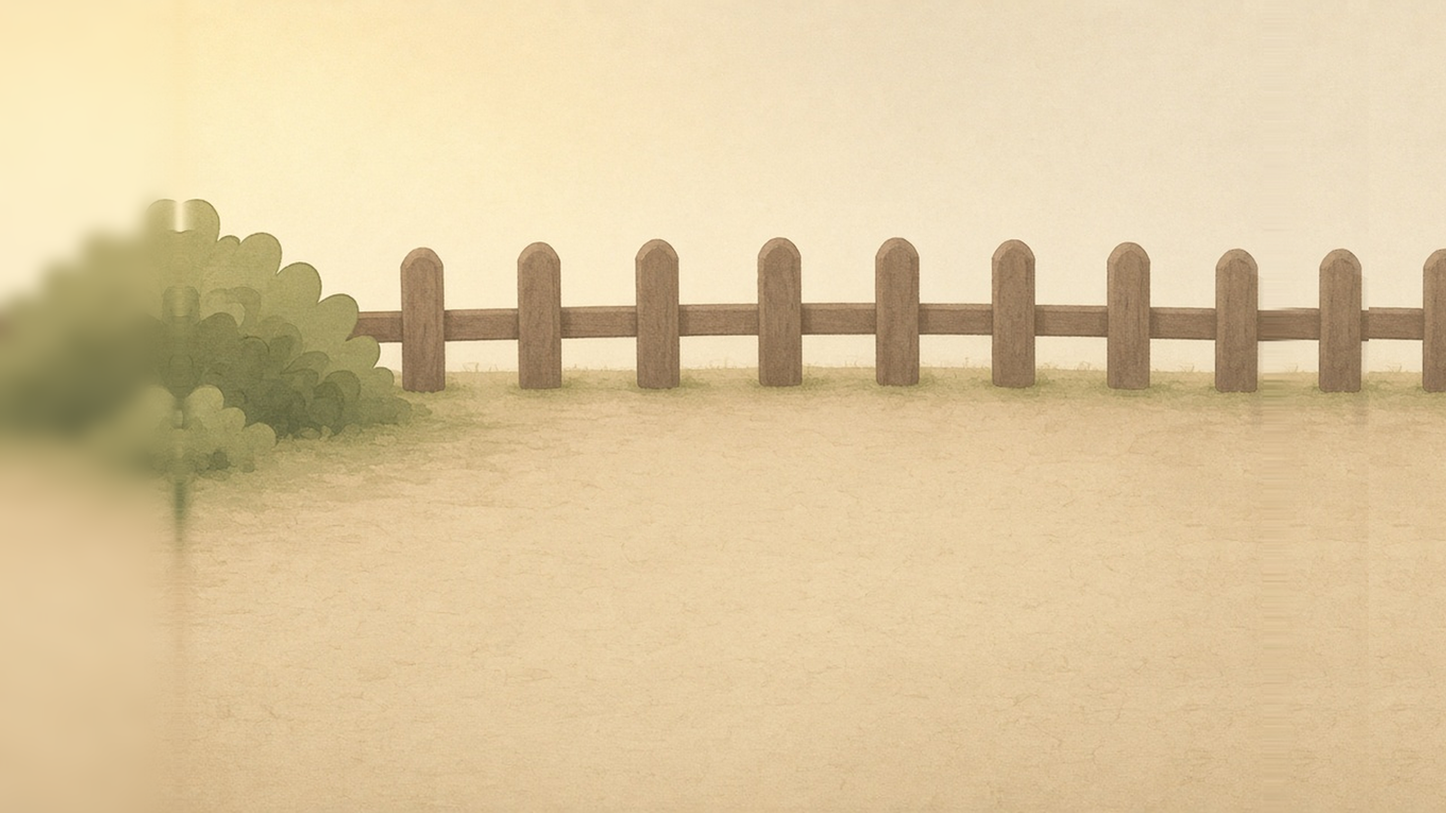
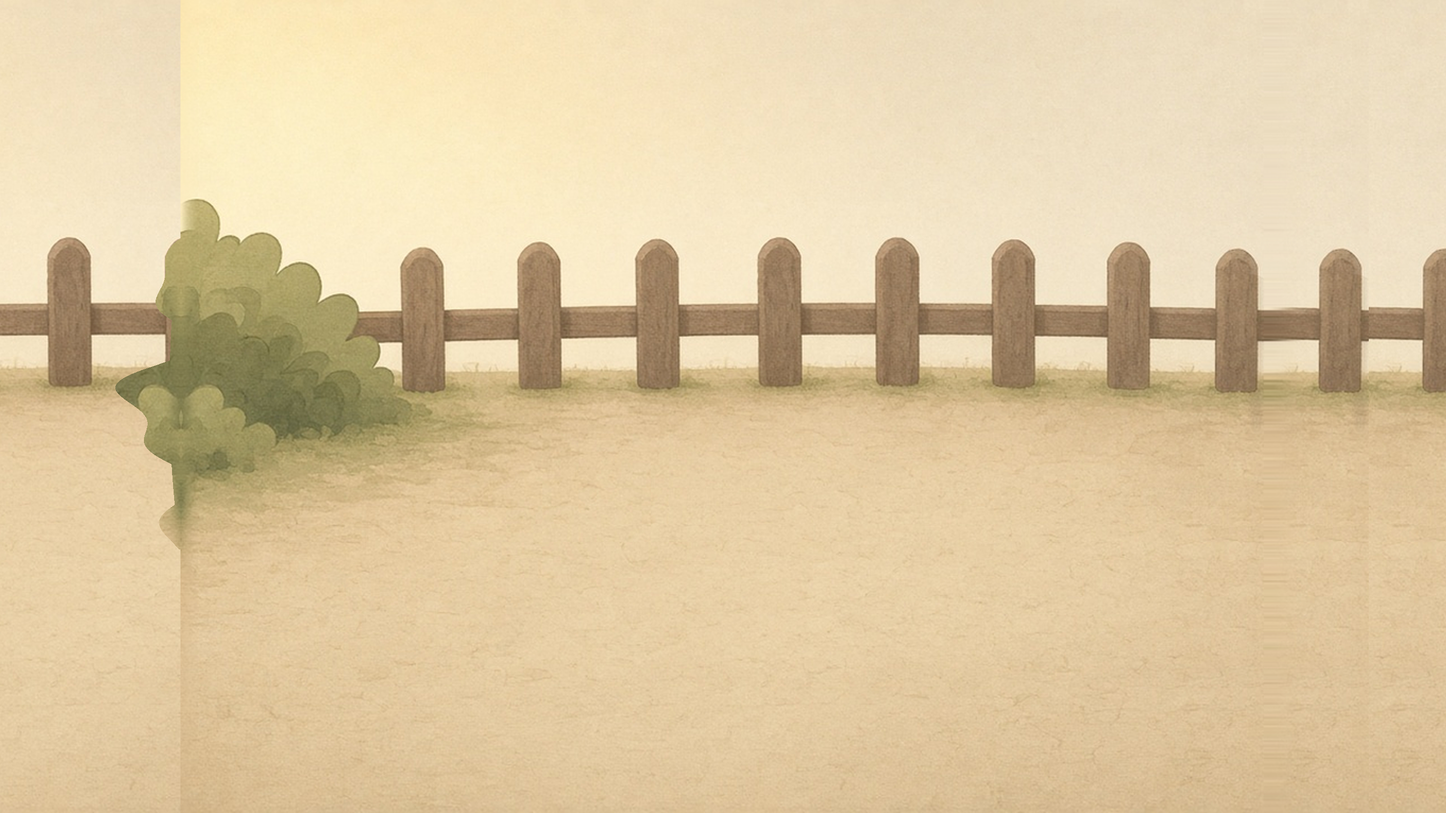
Урок «У»: левый край двора без шва, «У» открывается с главной
Левая боковина bg_yard больше не размытая копия куста. За кадром 4:3
продолжается тот же двор (небо, забор, земля), а срезанный край куста
дорисован короткими лопастями из его собственных пикселей — стык
совпадает попиксельно, вертикальной полосы нет.
На главной кубик «У» ведёт в lesson-u/, как «А» в lesson-a/.

Changed region(s): [[0.0, 0.25, 0.1245, 0.7188]]

diff --git a/web-home/index.html b/web-home/index.html
@@ -164,10 +164,12 @@ body { position: fixed; inset: 0; touch-action: manipulation; -webkit-user-selec
     b.type = "button"; b.dataset.letter = ch;
     var s = document.createElement("span"); s.textContent = ch;
     b.appendChild(s); letters.appendChild(b); cubes.push(b);
+    if (LESSONS[ch]) b.dataset.lesson = LESSONS[ch];
     if (ch === "А") { b.id = "cube-a"; cubeA = b; }
+    if (LESSONS[ch]) c_on(b);   // «А» → lesson-a/, «У» → lesson-u/; закрытая в режиме последовательности — «тук»
     else {
       if (ch === "Б") cubeLocked = b;   // цель автотеста: буква без урока
-      b.addEventListener("pointerdown", lockedTap);   // урока пока нет (или буква закрыта) — «тук» + покачивание
+      b.addEventListener("pointerdown", lockedTap);   // урока пока нет — «тук» + покачивание
     }
   }
   // какие буквы открыты: по умолчанию (незарегистрированный пользователь) — все; с настройкой «по последовательности» —
@@ -302,21 +304,27 @@ body { position: fixed; inset: 0; touch-action: manipulation; -webkit-user-selec
     try { actx.resume().then(function () { if (knockPending) { knockPending = false; knockNow(); } }, function () {}); } catch (e) {}
   }
   document.addEventListener("pointerup", unlockAudio, true); document.addEventListener("touchend", unlockAudio, true);
-  c_on(cubeA);
   function c_on(a) {
     // отклик — сразу на касание; переход — когда палец отпущен на кубике (click не ждём: на части планшетов он запаздывает)
     var down = false;
-    a.addEventListener("pointerdown", function () { if (state !== "leaving") { down = true; a.classList.add("press"); } });
-    a.addEventListener("pointerup", function () { if (down) { down = false; go(); } });
+    a.addEventListener("pointerdown", function (e) {
+      if (state === "leaving") return;
+      if (a.classList.contains("locked")) { lockedTap(e); return; }
+      down = true; a.classList.add("press");
+    });
+    a.addEventListener("pointerup", function () { if (down) { down = false; go(a); } });
     a.addEventListener("pointerleave", function () { down = false; if (state !== "leaving") a.classList.remove("press"); });
     a.addEventListener("pointercancel", function () { down = false; if (state !== "leaving") a.classList.remove("press"); });
-    a.addEventListener("click", go);   // клавиатура / программный клик
+    a.addEventListener("click", function () { go(a); });   // клавиатура / программный клик
   }
-  function go() {
-    if (state === "leaving") return;
+  function go(a) {
+    if (state === "leaving" || (a && a.classList.contains("locked"))) return;
     state = "leaving"; publish();
-    cubeA.classList.remove("press"); cubeA.classList.add("go"); stage.classList.add("leaving");
-    setTimeout(function () { location.href = lessonHref; }, 160);
+    var el = a || cubeA;
+    el.classList.remove("press"); el.classList.add("go"); stage.classList.add("leaving");
+    var base = (el.dataset && el.dataset.lesson) || LESSON;
+    var href = base + (lq.toString() ? "?" + lq.toString() : "");
+    setTimeout(function () { location.href = href; }, 160);
   }
   // возврат кнопкой «назад» (страница из bfcache) — снова ждём тап
   window.addEventListener("pageshow", function (e) {
